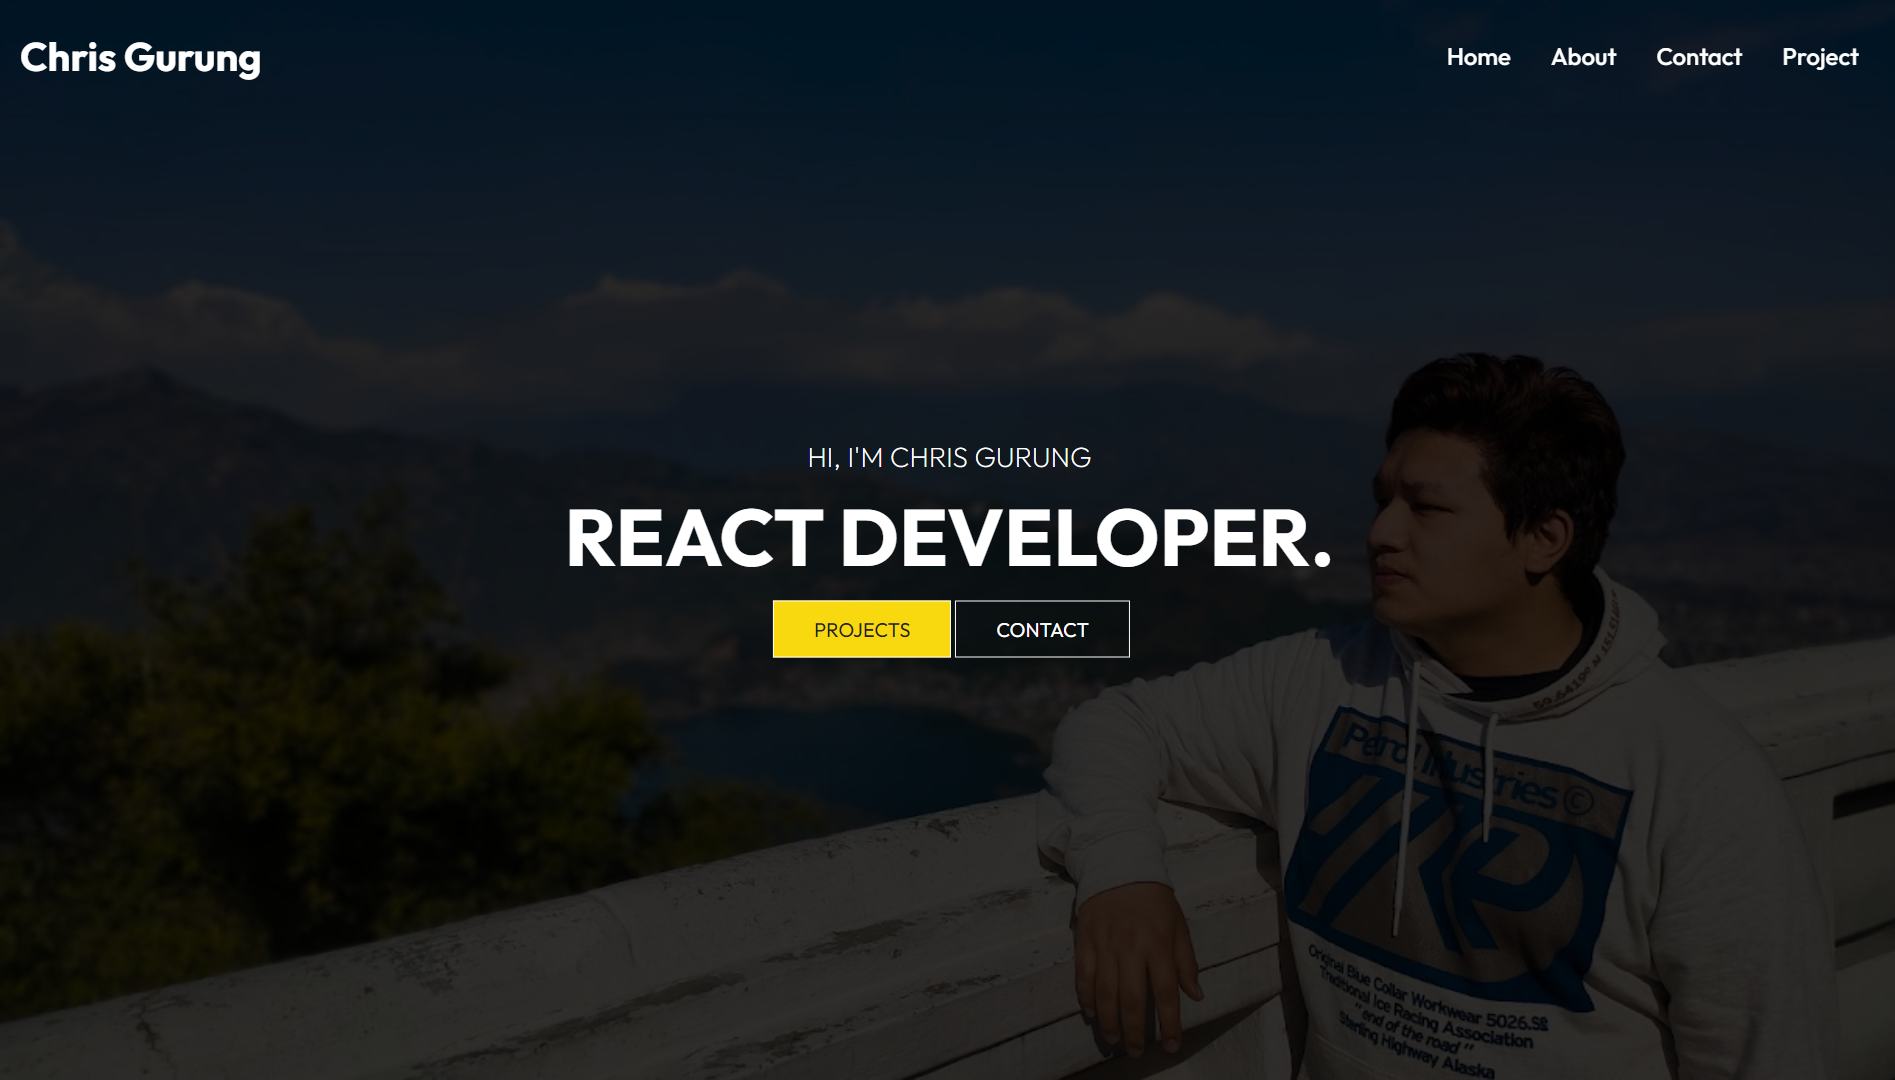
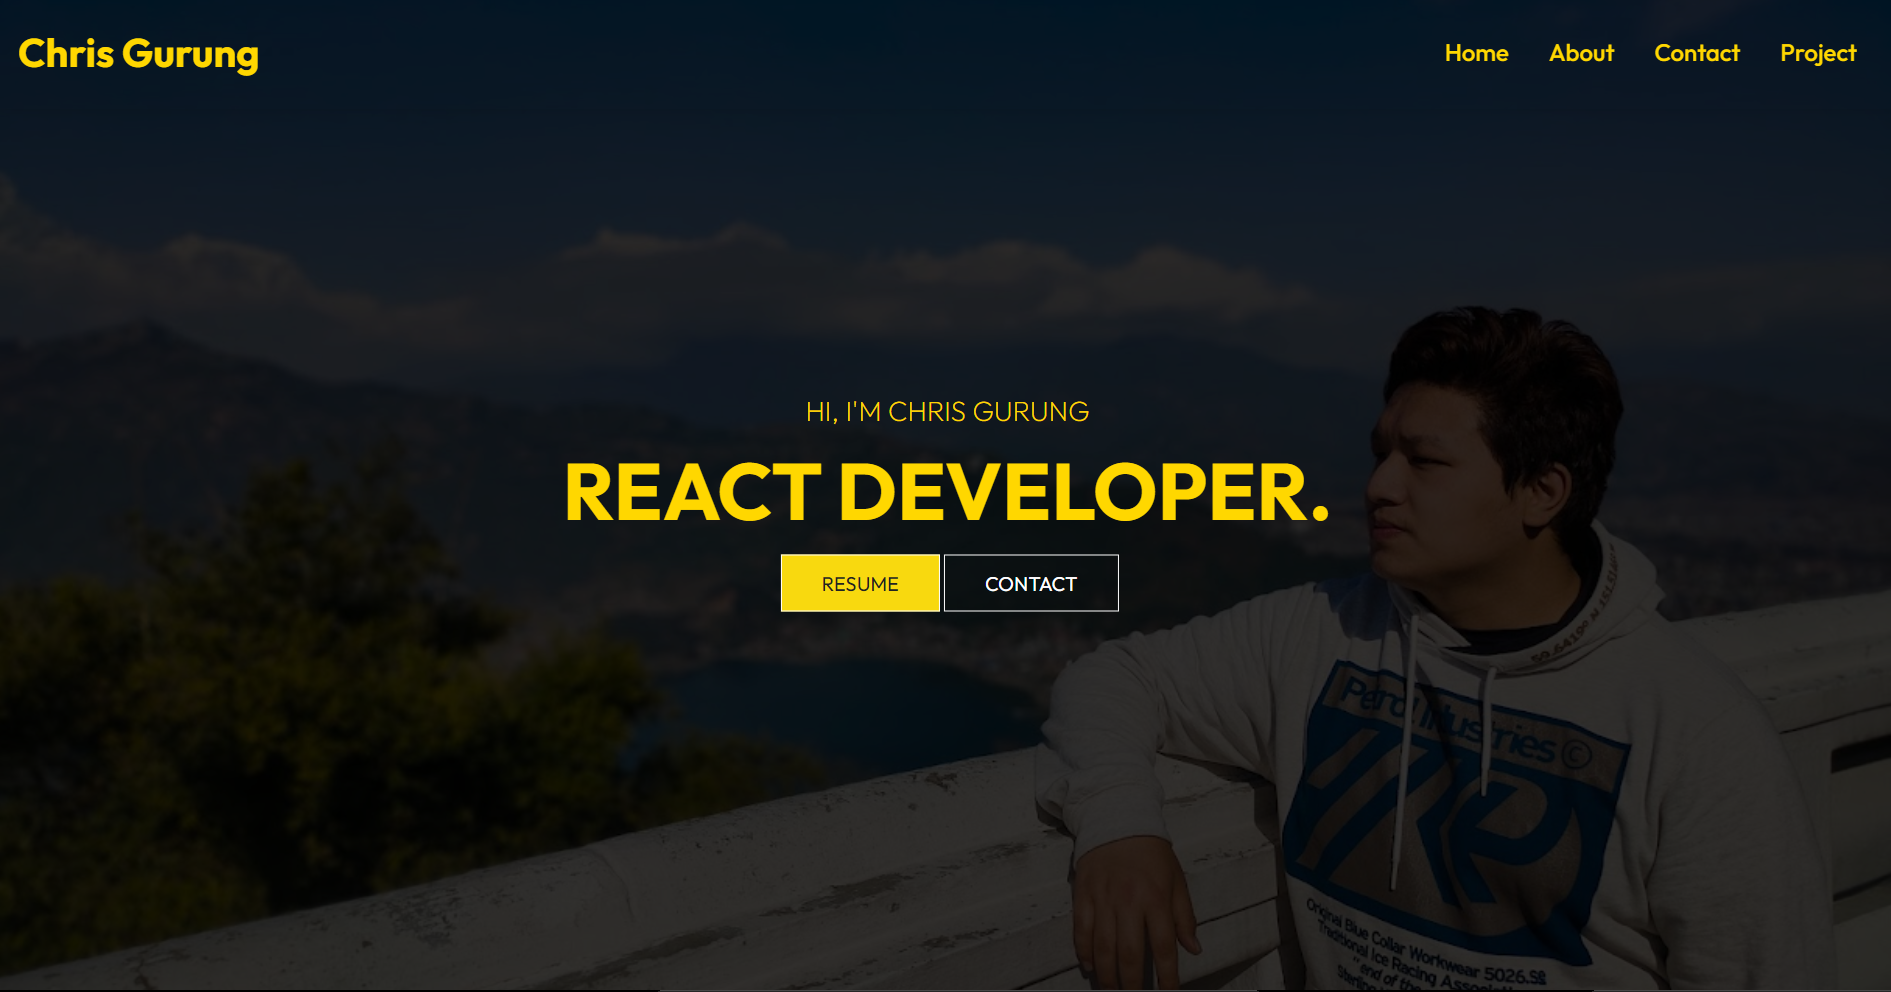
second commit

diff --git a/src/components/HeroImg.js b/src/components/HeroImg.js
@@ -1,6 +1,4 @@
 import "./HeroImgStyles.css";
-import "./Typewriter.css";
-
 import React from "react";
 import IntroImg from "../assets/chill.jpg";
 import { Link } from "react-router-dom";
@@ -15,8 +13,12 @@ const HeroImg = () => {
         <p>HI, I'M CHRIS GURUNG</p>
         <h1 className="typewriter">REACT DEVELOPER.</h1>
         <div>
-          <Link to="/project" className="btn">
-            Projects
+          <Link
+            to="https://drive.google.com/file/d/15Tvh4r2ZQHloqb-dhpdlLz4W_CwOGnxt/view?usp=sharing"
+            target="_blank"
+            className="btn"
+          >
+            Resume
           </Link>
           <Link to="/contact" className="btn-light">
             Contact

diff --git a/src/routes/Home.js b/src/routes/Home.js
@@ -3,7 +3,7 @@ import Navbar from "../components/Navbar";
 import Footer from "../components/Footer";
 import HeroImg from "../components/HeroImg";
 
-import AboutContent from "../components/AboutContent";
+// import AboutContent from "../components/AboutContent";
 import ProjectList from "../components/ProjectList";
 import ContactForm from "../components/ContactForm";
 
@@ -12,7 +12,7 @@ const Home = () => {
     <div>
       <Navbar />
       <HeroImg />
-      <AboutContent />
+      {/* <AboutContent /> */}
       <ProjectList />
       <ContactForm />
       <Footer />

diff --git a/src/data/ProjectCardData.js b/src/data/ProjectCardData.js
@@ -39,7 +39,7 @@ const ProjectCardData = [
   {
     imgsrc: pro4,
     title: "Newsletter",
-    text: "This is a To-Do-List project where you can add, edit and delete notes",
+    text: "This is an expressjs app which uses mailchimp api to sign up users to a mailing list",
     view: "https://github.com/Chris-Grg/Newsletter-signup",
     source: "https://github.com/Chris-Grg/Newsletter-signup",
     code: "js",

diff --git a/src/components/HeroImg2.js b/src/components/HeroImg2.js
@@ -27,7 +27,7 @@ const HeroImg = ({ type }) => {
         ) : type === "contact" ? (
           <>
             <h1>Contact</h1>
-            <p>You can contact me here</p>
+            <p>Let's talk!</p>
           </>
         ) : (
           <>

diff --git a/src/index.css b/src/index.css
@@ -8,7 +8,7 @@ font-family: 'Outfit', sans-serif;
   body{
     background: black;
   }
-  h1,h2,h4,p,a,span,label{
+  h1,h2,h4,p,a,span{
     color: #FFD700;
     text-decoration: none;
   }
